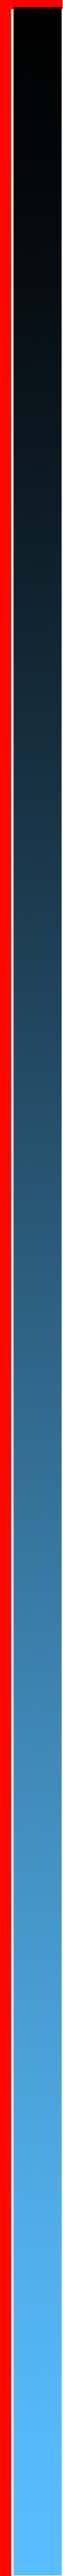
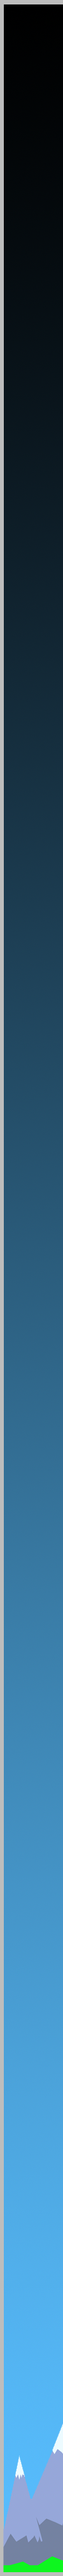
Add rool in GameView

Changed region(s): [[0.0, 0.0, 1.0, 1.0]]

diff --git a/core/src/com/FortPinnsvin/fallingman/GameView.java b/core/src/com/FortPinnsvin/fallingman/GameView.java
@@ -7,21 +7,33 @@ import com.badlogic.gdx.graphics.g2d.Sprite;
 import com.badlogic.gdx.graphics.g2d.SpriteBatch;
 
 public class GameView {
-	public float			W	= Gdx.graphics.getWidth();
-	public float			H	= Gdx.graphics.getHeight();
-	private Texture			balloon;
-	public static Sprite	spriteBalloon;
-	private SpriteBatch		batch;
-	private long			clickCount, meters;
-	private BitmapFont		font;
+	public float W = Gdx.graphics.getWidth();
+	public float H = Gdx.graphics.getHeight();
+	private Texture balloon;
+	private Texture shkala;
+	public static Sprite spriteBalloon;
+	private SpriteBatch batch;
+	private Sprite spriteShkala;
+	public static Sprite spriteMiniBalloon;
+	private long clickCount, meters;
+	private BitmapFont font;
 
 	public void create() {
 		batch = new SpriteBatch();
-		font = new BitmapFont(Gdx.files.internal("data/8bit.fnt"), Gdx.files.internal("data/8bit.png"), false);
+		font = new BitmapFont(Gdx.files.internal("data/8bit.fnt"),
+				Gdx.files.internal("data/8bit.png"), false);
 		balloon = new Texture("balloon.png");
+		shkala = new Texture("Shkala.png");
 		spriteBalloon = new Sprite(balloon);
 		spriteBalloon.setSize(W / 3, H / 4);
 		spriteBalloon.setPosition(W / 2 - W / 6, H / 8);
+		spriteShkala = new Sprite(shkala);
+		spriteShkala.setPosition((float) (W / 1.05), 0);
+		spriteShkala.setSize(W - (float) (W / 1.05), H);
+		spriteMiniBalloon = new Sprite(balloon);
+		spriteMiniBalloon.setPosition((float) (W / 1.05), 5);
+		spriteMiniBalloon.setSize(W - (float) (W / 1.05), H / 27);
+
 		clickCount = 0;
 		meters = 0;
 	}
@@ -32,8 +44,13 @@ public class GameView {
 		if (meters - 1 >= 0) {
 			meters -= 1;
 		}
-		font.draw(batch, clickCount + " clicks", font.getSpaceWidth(), H - font.getSpaceWidth());
-		font.draw(batch, meters + " meters", font.getSpaceWidth(), H - 2 * font.getSpaceWidth() - font.getLineHeight());
+		spriteShkala.draw(batch);
+		spriteMiniBalloon.draw(batch);
+		font.draw(batch, clickCount + " clicks", font.getSpaceWidth(),
+				H - font.getSpaceWidth());
+		font.draw(batch, meters + " meters", font.getSpaceWidth(),
+				H - 2 * font.getSpaceWidth() - font.getLineHeight());
+
 		batch.end();
 	}
 

diff --git a/core/src/com/FortPinnsvin/fallingman/Menu.java b/core/src/com/FortPinnsvin/fallingman/Menu.java
@@ -38,7 +38,7 @@ public class Menu extends AndroidRun {
 		balloon = new Texture("balloon.png");
 		spriteBalloon = new Sprite(balloon);
 		spriteBalloon.setSize(W / 3, H / 4);
-		spriteBalloon.setPosition(W / 2, -H / 4);
+		spriteBalloon.setPosition(W / 2, H/10);
 		button = new Texture("button.png");
 		spriteButton = new Sprite[4];
 		buttonWidth = (W - 100);

diff --git a/core/src/com/FortPinnsvin/fallingman/AboutView.java b/core/src/com/FortPinnsvin/fallingman/AboutView.java
@@ -37,7 +37,7 @@ public class AboutView {
 		balloon = new Texture("balloon.png");
 		spriteBalloon = new Sprite(balloon);
 		spriteBalloon.setSize(W / 3, H / 4);
-		spriteBalloon.setPosition(W / 2, -H / 4);
+		spriteBalloon.setPosition(W / 2, H/10);
 		spriteCloude = new Sprite[3];
 		cloude = new Texture[3];
 		for (int i = 0; i < 3; i++) {

diff --git a/core/src/com/FortPinnsvin/fallingman/Background.java b/core/src/com/FortPinnsvin/fallingman/Background.java
@@ -15,7 +15,7 @@ public class Background {
 
 	public void create() {
 		batch = new SpriteBatch();
-		bg = new Texture("bg.png");
+		bg = new Texture("bg-1-mini.png");
 		spriteBg = new Sprite(bg);
 		spriteBg.setPosition(0, 0);
 		spriteBg.setSize(WIDTH, HEIGHT);
